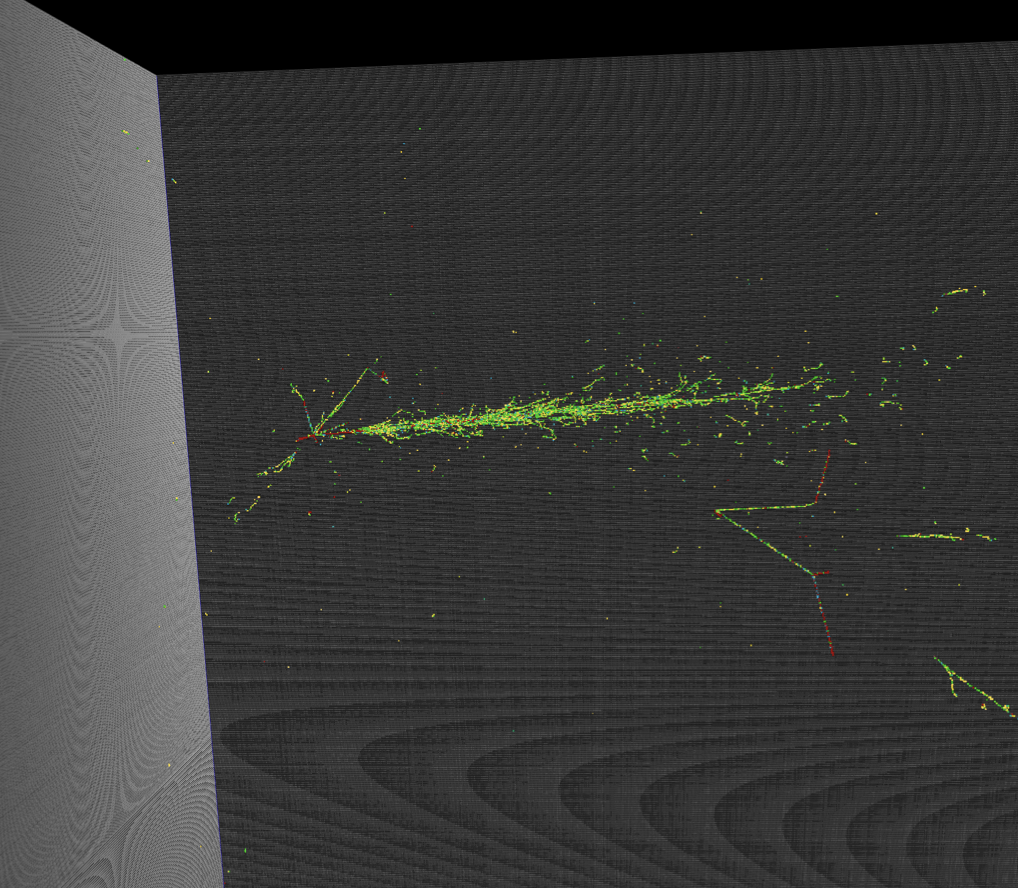
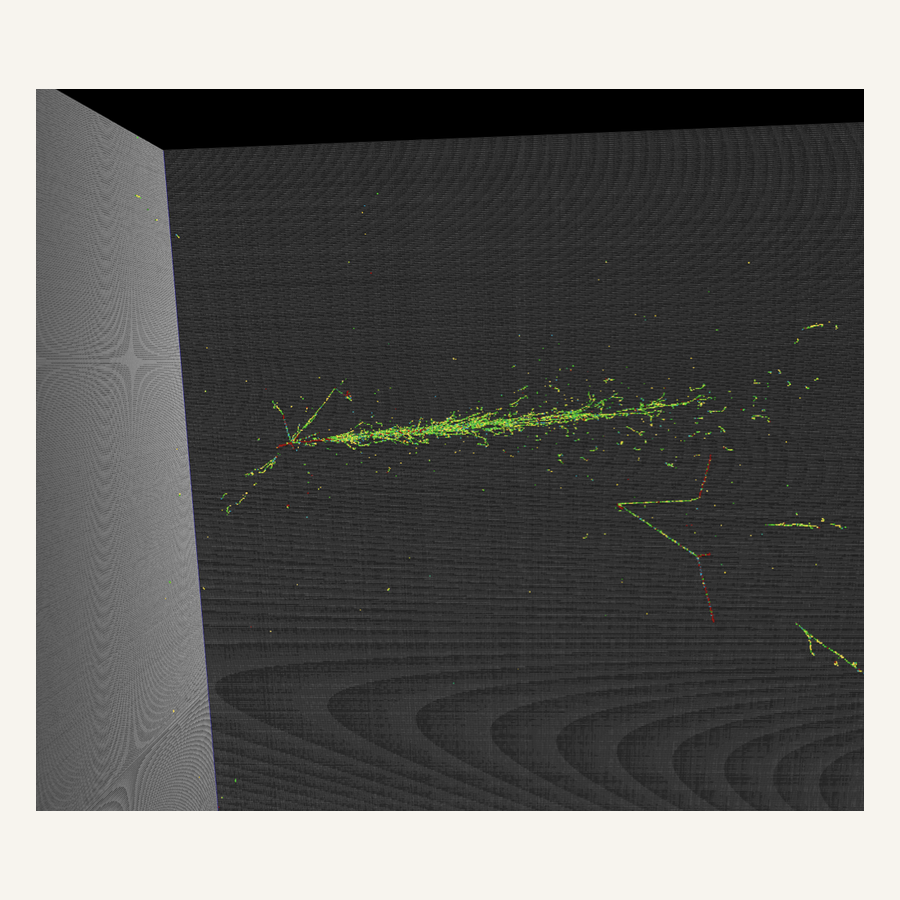
Group research interests by question and square the publication figures.
Mechanics, collective behavior, and information no longer repeat the same story. Every publication image sits on a square canvas.

diff --git a/_pages/research.md b/_pages/research.md
@@ -2,19 +2,46 @@
 layout: page
 title: Research interests
 permalink: /research/
-description: Biological physics and soft matter.
+description: Three lines of work, kept separate.
 nav: true
 nav_order: 3
-horizontal: true
 ---
 
-<div class="projects">
-{% assign sorted_projects = site.projects | sort: "importance" %}
-<div class="container">
-  <div class="row row-cols-1">
-  {% for project in sorted_projects %}
-    {% include projects_horizontal.liquid %}
-  {% endfor %}
+<section class="research-group">
+  <h2>Mechanics of form</h2>
+  <p class="group-note">How structure sets the energy of a tissue.</p>
+  <div class="projects">
+    <div class="row row-cols-1">
+      {% assign items = site.projects | where: "category", "mechanics" | sort: "importance" %}
+      {% for project in items %}
+        {% include projects_horizontal.liquid %}
+      {% endfor %}
+    </div>
   </div>
-</div>
-</div>
+</section>
+
+<section class="research-group">
+  <h2>Collective behavior</h2>
+  <p class="group-note">Three different questions: how a group assembles, what the group reveals, and how it can be lost.</p>
+  <div class="projects">
+    <div class="row row-cols-1">
+      {% assign items = site.projects | where: "category", "collective" | sort: "importance" %}
+      {% for project in items %}
+        {% include projects_horizontal.liquid %}
+      {% endfor %}
+    </div>
+  </div>
+</section>
+
+<section class="research-group">
+  <h2>Information</h2>
+  <p class="group-note">How a code and the sequences that use it change together.</p>
+  <div class="projects">
+    <div class="row row-cols-1">
+      {% assign items = site.projects | where: "category", "information" | sort: "importance" %}
+      {% for project in items %}
+        {% include projects_horizontal.liquid %}
+      {% endfor %}
+    </div>
+  </div>
+</section>

diff --git a/_projects/genetic-code.md b/_projects/genetic-code.md
@@ -1,15 +1,17 @@
 ---
 layout: page
-title: Codes and the genes that use them
-description: Error buffering can come from ordinary selection, without freezing the code or adding an extra score.
-importance: 5
-category: research
+title: Codes that buffer errors
+description: Redundancy can be favored because it leaves more descendants, without freezing the code or scoring it by hand.
+importance: 1
+category: information
 ---
 
-The genetic code is redundant, and that redundancy buffers mistakes.
-Most accounts either hold the code fixed while only the genes evolve, or they judge the code by an information-theory score that is not the same thing as leaving more offspring.
+This line of work is separate from the mechanics and the collective behavior above.
+It is about information.
 
-I have been looking at populations in which the code and the sequences change together, with selection acting only on what gets expressed.
-In the small versions of that model, codes that buffer errors are the ones that remain, because they leave more descendants.
-These are toy alphabets.
-They are a check that the mechanism can work, not a claim about the biological code, and they are not a finished paper.
+The genetic code is redundant, and that redundancy buffers mistakes.
+Usual accounts either hold the code fixed and evolve only the genes, or they grade the code with an information-theory score that is not reproduction.
+I look at small models in which the code and the sequences change together, and selection acts only on what is expressed.
+In those models, codes that buffer errors are the ones that remain.
+They are toy alphabets, a check that the mechanism can work.
+They are not the biological code, and they are not a finished paper.

diff --git a/_projects/epithelial-shape.md b/_projects/epithelial-shape.md
@@ -1,16 +1,17 @@
 ---
 layout: page
 title: Shape of living tissues
-description: Why a cell is more than its outline, and what that means for the energy of a tissue.
+description: The energy of a tissue depends on the structure of the cell, not only on the length of its edge.
 importance: 1
-category: research
+category: mechanics
 ---
 
 Epithelial sheets are the thin walls of organs.
-The usual description draws each cell as a polygon and charges a simple penalty for the length of its edge.
-That is a useful starting point, and it leaves out the fact that a cell has an interior and a cortex, and that its outline changes from the top of the cell to the base.
+The usual model draws each cell as a polygon and charges a penalty for the length of that outline.
+That penalty is put in by hand.
+It also has nothing to say about why the outline changes between the top of a cell and its base.
 
-The experiments already show that this change along the height is systematic.
-A continuum description can follow that trend.
-What I am working out is an energy that respects the cell’s structure, so that a later tissue model does not have to invent the penalty by hand.
-The published preprint on the publication list is the part of this work that is already public.
+Experiments show that this change along the height is systematic.
+A continuum description can follow the trend.
+I am looking for an energy that comes from the cell’s own structure, so a tissue model does not have to invent the penalty.
+The public part of this work is the preprint on the publication list.

diff --git a/_projects/population-extinction.md b/_projects/population-extinction.md
@@ -1,16 +1,16 @@
 ---
 layout: page
-title: When a population disappears
-description: A colony can look stable and still be one rare fluctuation away from being lost.
-importance: 4
-category: research
+title: Rare loss of a population
+description: A healthy density is not the same thing as being safe from a single large fluctuation.
+importance: 3
+category: collective
 ---
 
-Birth, death, and motion all fluctuate.
-A population that sits at a comfortable density can still be ended by one large excursion, not by a slow decline of the average.
+This question is only about persistence.
+It is not about assembly, and it is not about searching.
 
-I study the most likely way that happens.
-The exit need not thin the population everywhere at once.
-It can open in one place and then spread, and the spatial structure of the colony changes how hard that exit is.
-The calculation is furthest along for a simple setting.
-Direct stochastic checks, and the same question in higher dimensions, are still open.
+Birth, death, and motion all fluctuate.
+A population sitting at a comfortable density can still be ended by one large excursion, rather than by a slow decline of the average.
+The loss can begin in one region instead of everywhere at once, and spatial structure changes how hard that is.
+The simple case is the one in hand.
+A direct stochastic check, and the same question in higher dimensions, are still open.

diff --git a/_projects/capillary-colonies.md b/_projects/capillary-colonies.md
@@ -1,15 +1,15 @@
 ---
 layout: page
-title: How a colony gathers
-description: Crowding is not the whole reason a group of cells comes together.
-importance: 2
-category: research
+title: How a group assembles
+description: Cells can gather while they are still dilute. Crowding is not the whole account.
+importance: 1
+category: collective
 ---
 
-Some bacteria form groups even when they are not packed tightly.
-Explanations that rely only on crowding therefore miss part of the phenomenon.
+This question is only about assembly.
+It is not about how the cells search, and it is not about how a population is lost.
 
-The cells move in a thin film of liquid, and that film can pull neighbors toward one another.
-In a crowd the pull is not the same as it is for an isolated pair.
-I am building a continuum picture of when that attraction is enough to organize the colony, checked against simulation and against what the experiments already show.
-The comparisons are not finished, so I am not putting the working numbers here.
+Some bacteria form groups before they are packed together.
+A surrounding film of liquid can draw neighbors toward one another, and the pull felt inside a crowd is not the pull felt by an isolated pair.
+I am comparing a continuum account of that attraction with simulation and with experiment.
+Those comparisons are unfinished, so the working numbers stay off this page.

diff --git a/_projects/cellular-foraging.md b/_projects/cellular-foraging.md
@@ -1,14 +1,15 @@
 ---
 layout: page
-title: How cells search
-description: A picture of the colony can say how the cells are searching, without following each one.
-importance: 3
-category: research
+title: Reading a search rule
+description: Different ways of searching leave different traces in the group as a whole.
+importance: 2
+category: collective
 ---
 
-A single swimming cell is a noisy measurement, and tracking enough of them is slow.
-The colony, seen as a whole, has already averaged over many cells.
+This question is only about inference.
+It assumes a group is already there. It does not ask why the group formed.
 
-Different rules for finding food do not leave the same trace in that average.
-The position of the group, how spread out it is, and how its shape changes with time carry different parts of the answer.
-The aim is to read the rule from those colony-scale signals, and to know what a single release of cells is actually able to tell you.
+A single track is noisy, and collecting enough of them is slow.
+The group has already averaged many tracks.
+Where it sits, how widely it spreads, and how its shape changes do not respond in the same way to every search rule.
+The aim is to tell those rules apart from that coarser record.
